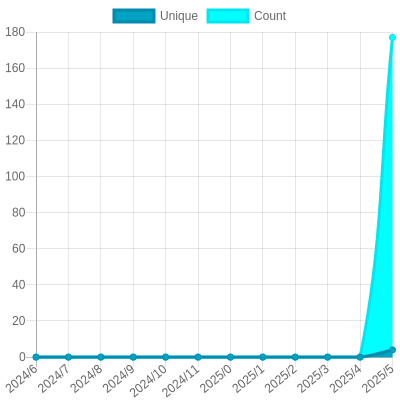
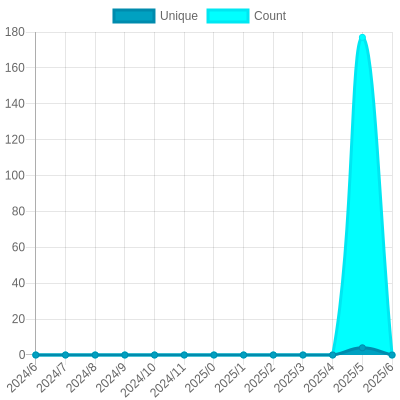
Update views

Changed region(s): [[0.0, 0.09, 0.99, 0.99], [0.03, 0.06, 0.06, 0.09]]

diff --git a/README.md b/README.md
@@ -26,18 +26,18 @@ The project created and maintained by [gayanvoice](https://github.com/gayanvoice
 			</a>
 		</td>
 		<td>
-			2024/6/29 9:24 AM UTC
+			2024/6/30 12:00 AM UTC
 		</td>
 		<td>
-			3
+			4
 		</td>
 		<td>
-			<img alt="Response time graph" src="https://github.com/AslanEminovi/my-views-counter/raw/master/graph/820007417/small/year.png" height="20"> 172
+			<img alt="Response time graph" src="https://github.com/AslanEminovi/my-views-counter/raw/master/graph/820007417/small/year.png" height="20"> 177
 		</td>
 	</tr>
 </table>
 
-<small><i>Last updated on 2024/7/1 6:22 PM UTC</i></small>
+<small><i>Last updated on 2024/7/2 1:14 AM UTC</i></small>
 
 ## ✂Copy and 📋 Paste
 ### Total Views Badge

diff --git a/readme/820007417/year.md b/readme/820007417/year.md
@@ -20,6 +20,17 @@
 	</tr>
 	<tr>
 		<td>
+			<code>2024/7/1</code>
+		</td>
+		<td>
+			<code>0</code>
+		</td>
+		<td>
+			<code>0</code>
+		</td>
+	</tr>
+	<tr>
+		<td>
 			<code>2024/6/1</code>
 		</td>
 		<td>
@@ -153,7 +164,7 @@
 </table>
 
 </details>
-<small><i>Last updated on 2024/7/1 6:22 PM UTC</i></small>
+<small><i>Last updated on 2024/7/2 1:14 AM UTC</i></small>
 
 ## ✂Copy and 📋 Paste
 ### SVG Badge
